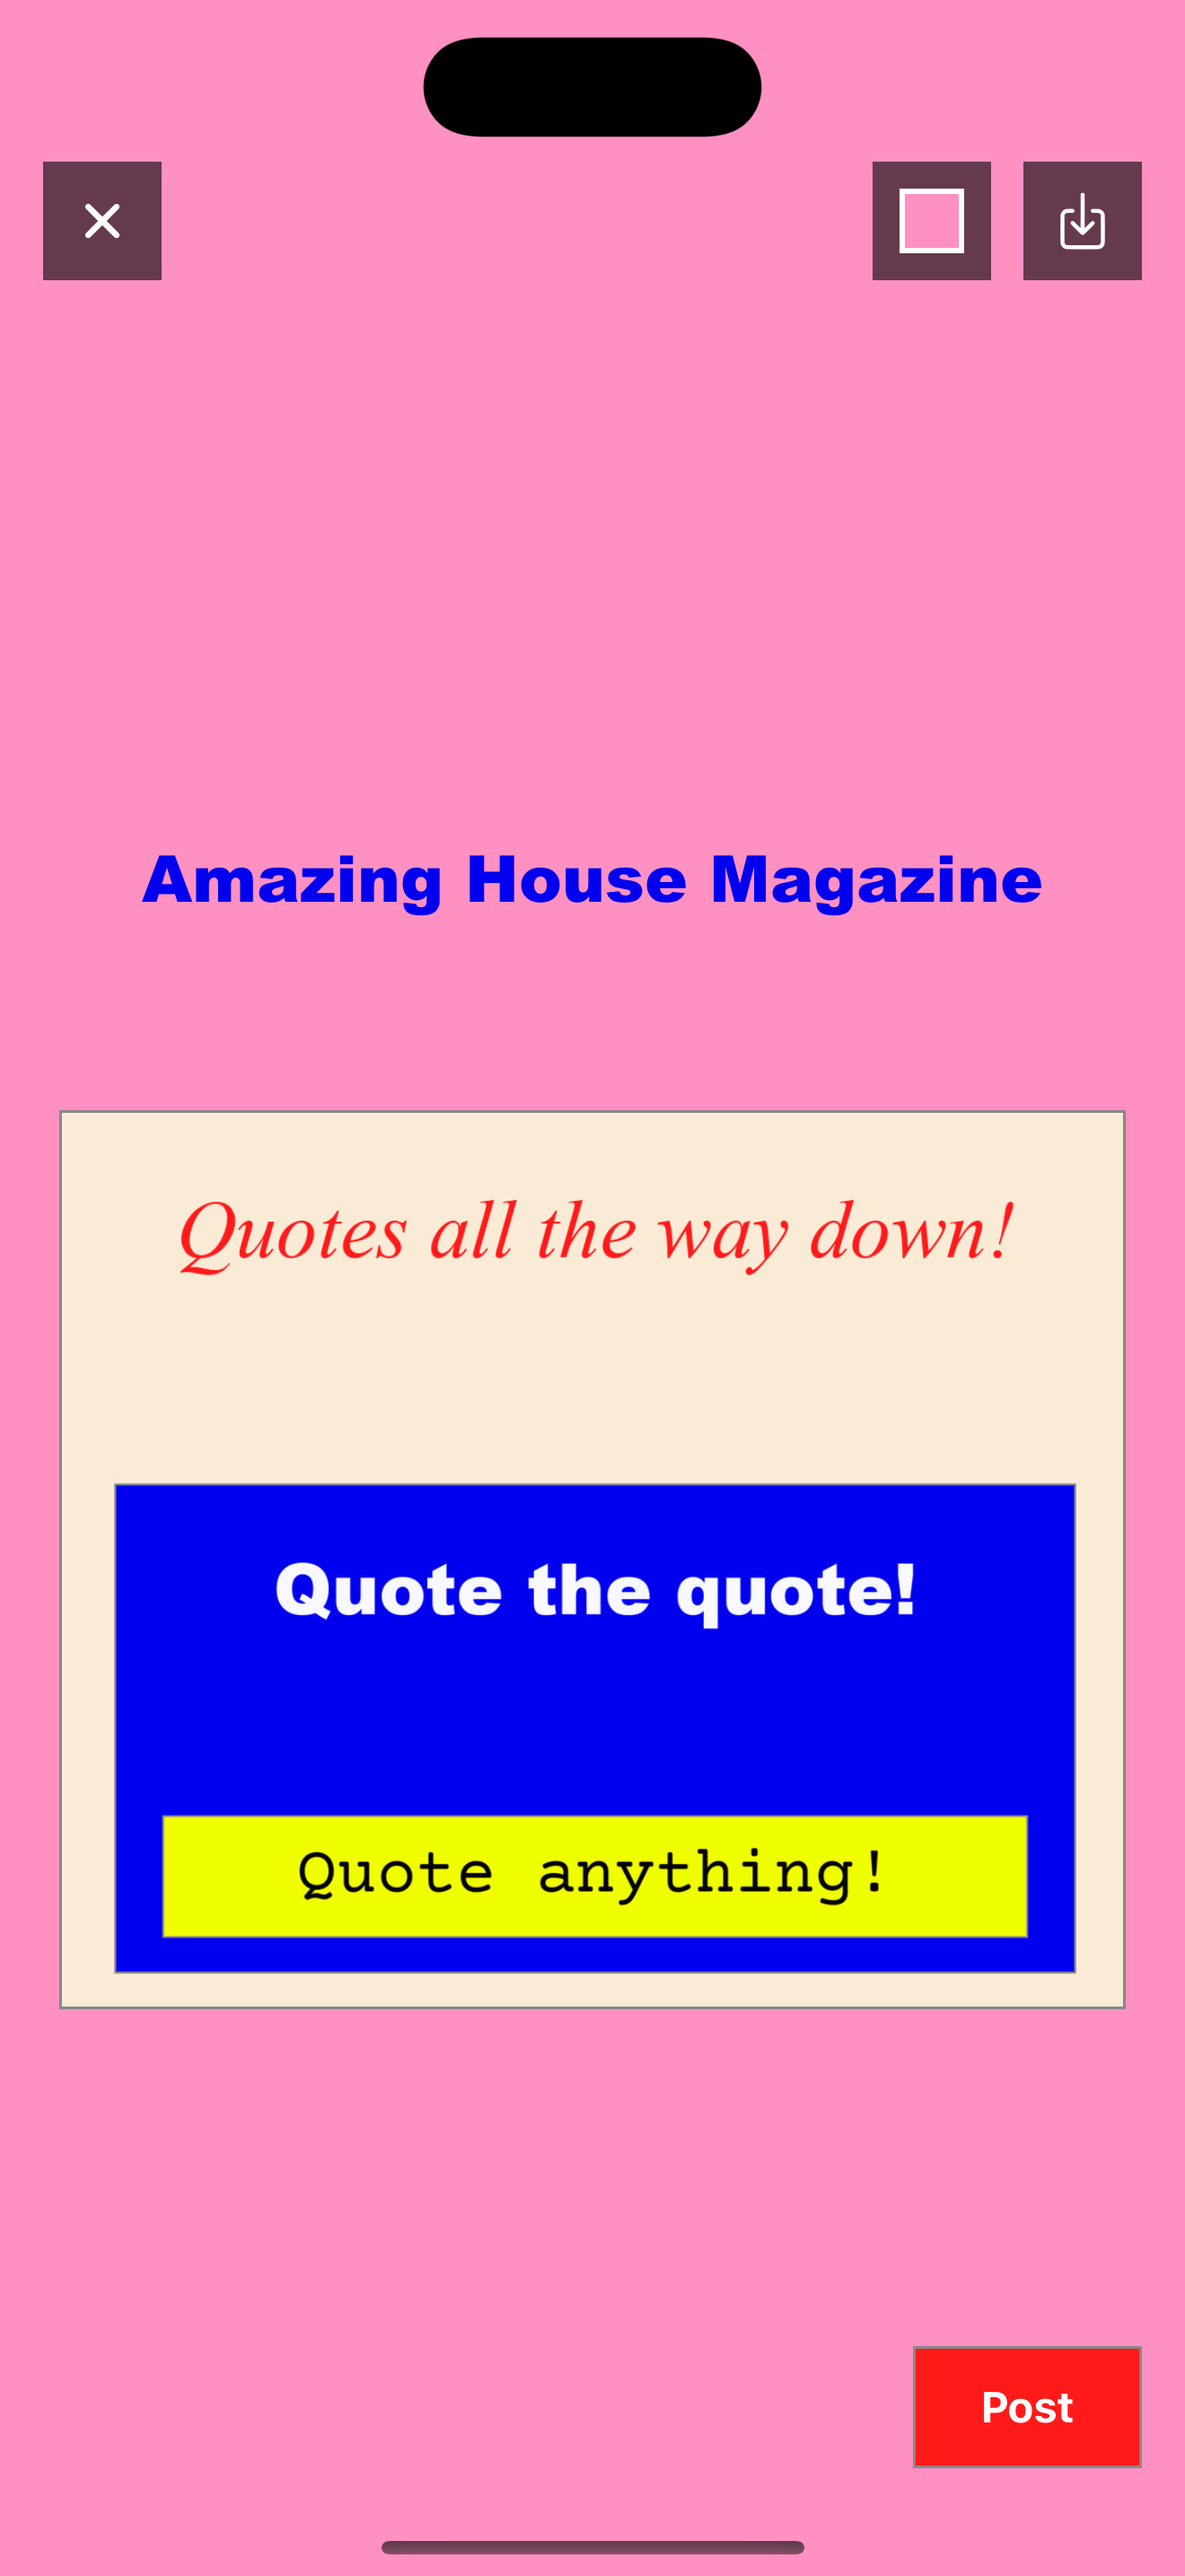
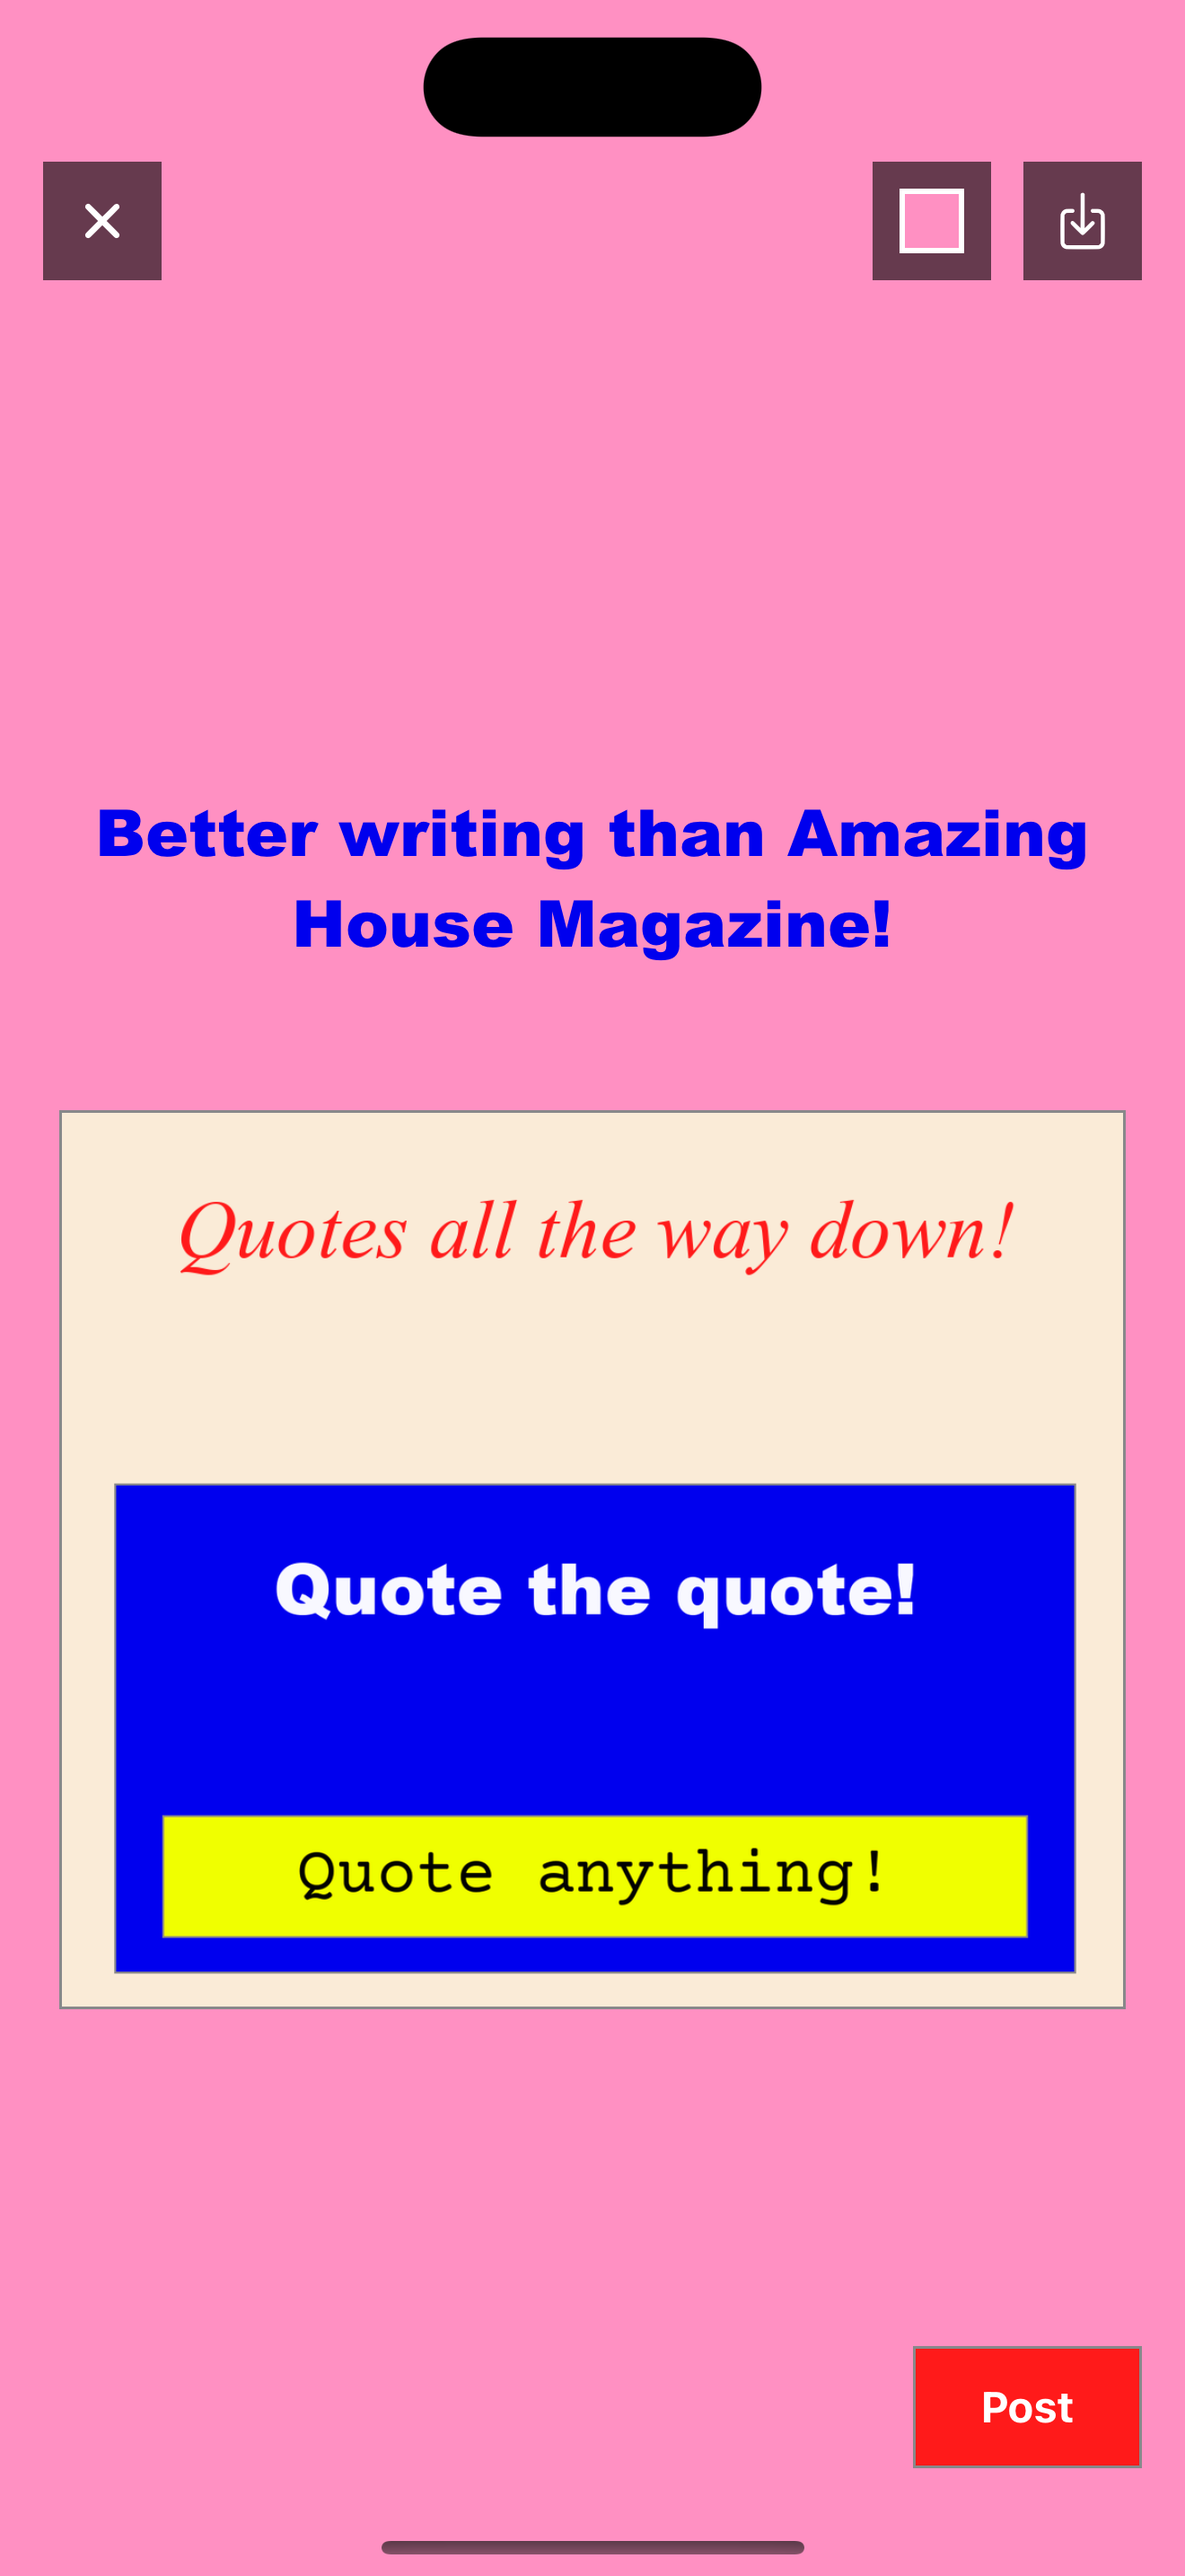
Screenshots: feed opens on a nested quote; "Better writing than Amazing House Magazine!"
- Seed order puts the three-deep quote ("Quotes all the way down!") second
  in the feed, so the first screenshot shows recursion; its inner pages
  stay older
- Composer shot caption: "Better writing than Amazing House Magazine!"

Changed region(s): [[0.0621, 0.3103, 0.9318, 0.3724]]

diff --git a/frontend/scripts/seed-store.ts b/frontend/scripts/seed-store.ts
@@ -55,14 +55,14 @@ async function quote(device: string, original: any, background: string, caption:
 }
 
 async function main() {
-  // Oldest first: the feed shows the last one on top.
+  // Oldest first: the feed shows the last one on top. The quote chain's
+  // inner pages are old; its outer page is recent, so the feed shot opens
+  // on a post nested three deep.
   const a = await post('seed-ines', snapshot('#F0FF00', [
     el('Quote anything!', { fontFamily: 'courier-prime', fontSize: 34, color: '#000000', y: 430 }),
   ]));
   const b = await quote('seed-otto', a, '#0000EE',
     el('Quote the quote!', { fontFamily: 'arial-black', fontSize: 32, color: '#F8F8FF' }));
-  await quote('seed-maru', b, '#FAEBD7',
-    el('Quotes all the way down!', { fontFamily: 'crimson-text', fontSize: 34, color: '#FF1A1A', italic: true }));
 
   await post('seed-otto', snapshot('#F0FF00', [
     el('yes, papyrus.', { fontFamily: 'papyrus', fontSize: 44, alternateColors: ['#FF1493', '#0000EE'], y: 460 }),
@@ -71,6 +71,11 @@ async function main() {
     backgroundGradient: ['#FF1A1A', '#FF9500', '#FFD700', '#32CD32', '#00CED1', '#9932CC'],
     textElements: [el('Text as\nimage!', { fontFamily: 'impact', fontSize: 76, color: '#F8F8FF', y: 470 })],
   }));
+  await post('seed-maru', snapshot('#FAEBD7', [
+    el('Typography for everyone!', {
+      fontFamily: 'crimson-text', fontSize: 33, color: '#690016', italic: true, y: 470,
+    }),
+  ]));
   await post('seed-maru', snapshot('#FF1493', [
     el('Words, arranged\nbeautifully!', {
       fontFamily: 'caveat', fontSize: 40, color: '#0000EE', backgroundMode: 'white', hasBackground: true, y: 470,
@@ -79,11 +84,8 @@ async function main() {
   await post('seed-otto', snapshot('#F0FF00', [
     el('Big ideas in small print!', { fontFamily: 'courier-prime', fontSize: 17, color: '#000000', y: 470 }),
   ]));
-  await post('seed-maru', snapshot('#FAEBD7', [
-    el('Typography for everyone!', {
-      fontFamily: 'crimson-text', fontSize: 33, color: '#690016', italic: true, y: 470,
-    }),
-  ]));
+  await quote('seed-maru', b, '#FAEBD7',
+    el('Quotes all the way down!', { fontFamily: 'crimson-text', fontSize: 34, color: '#FF1A1A', italic: true }));
   await post('seed-ines', snapshot('#FF1A1A', [
     el("Creative Mind's\nIdeas!", { fontFamily: 'arial-black', fontSize: 44, color: '#F8F8FF', y: 470 }),
   ]));
